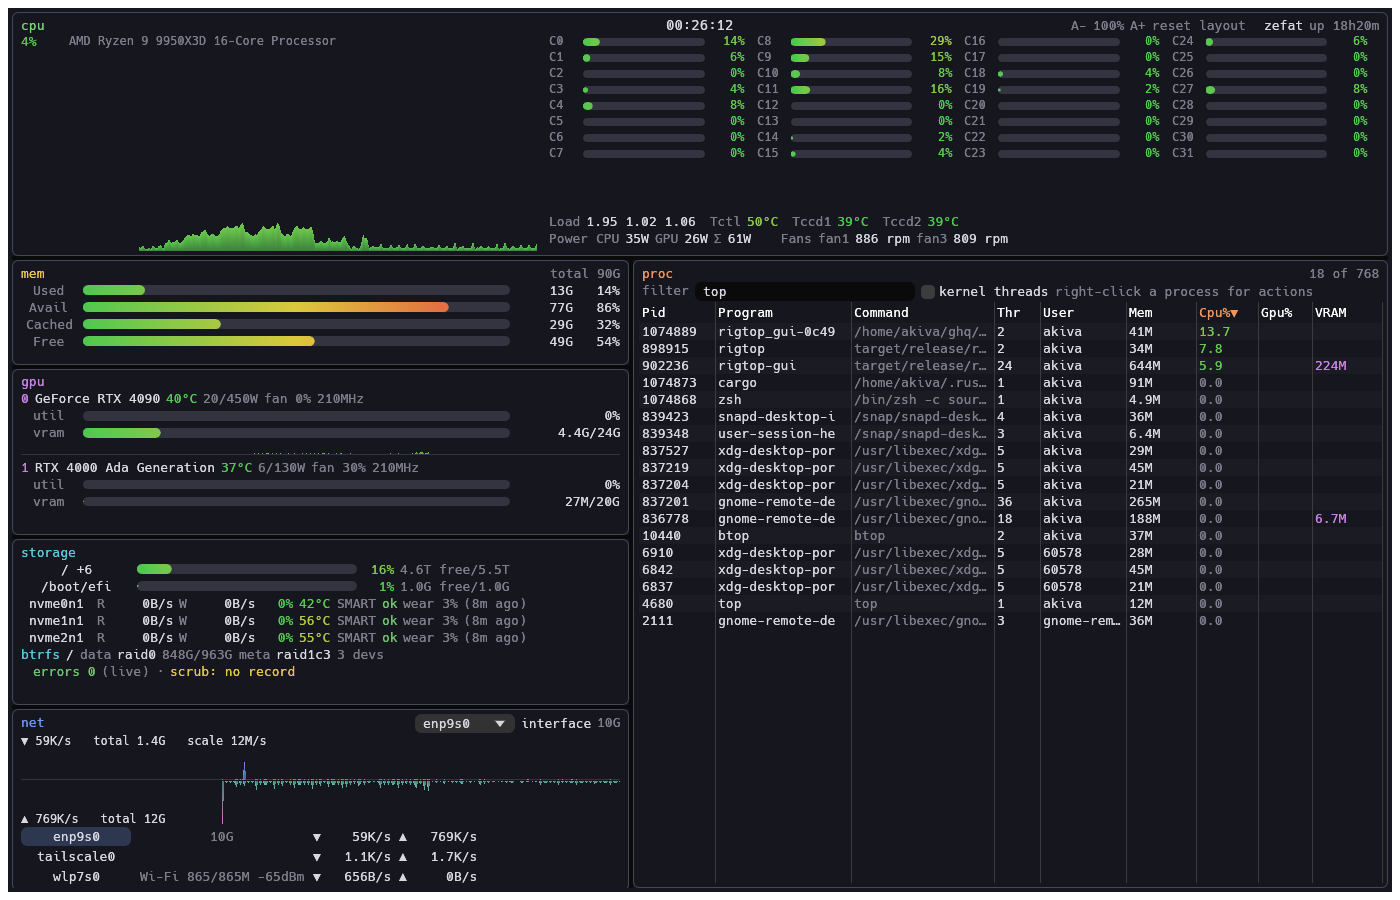
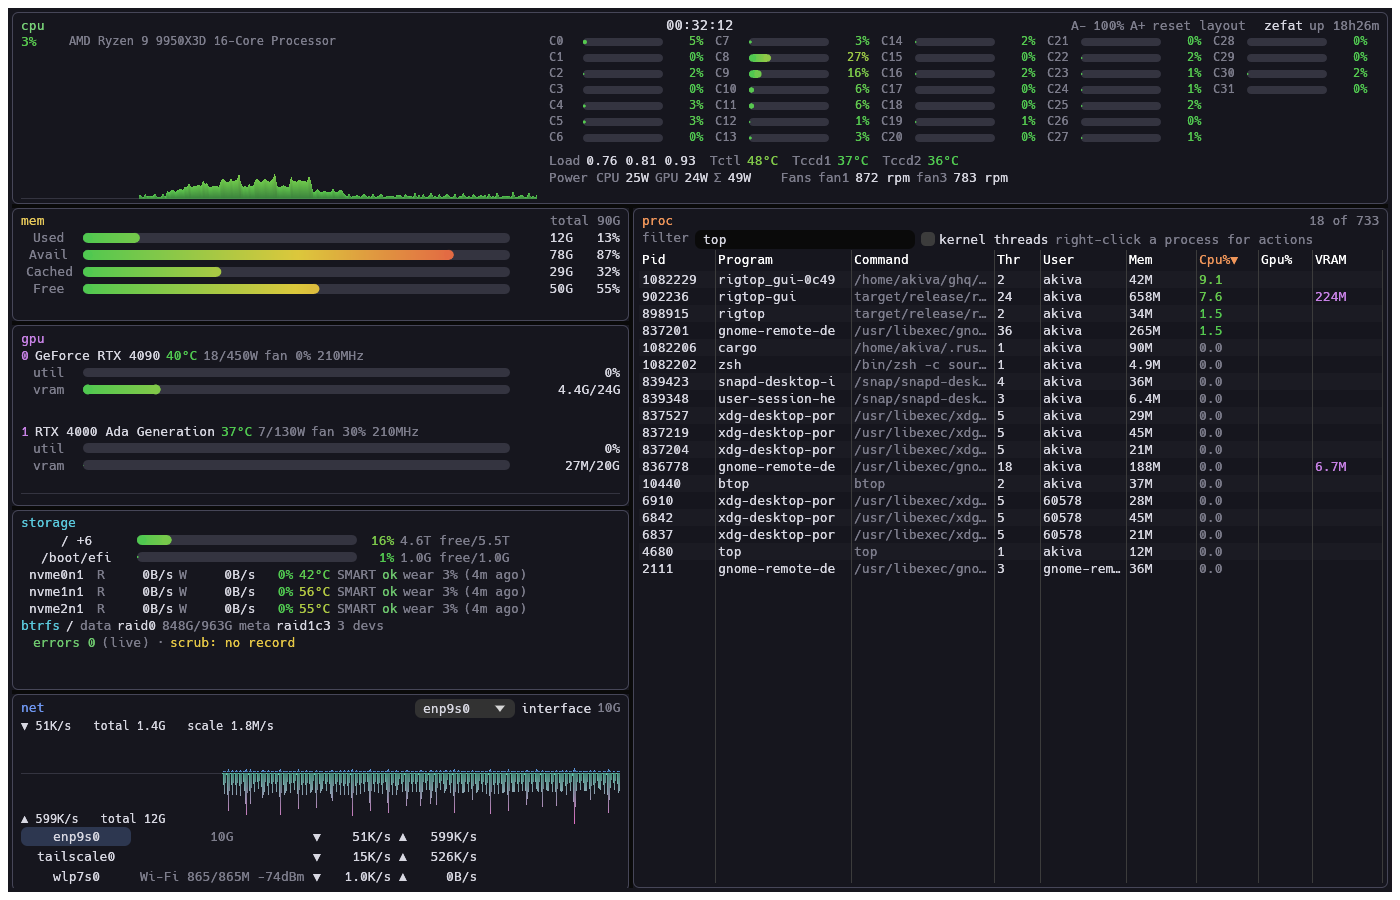
GUI: tighter CPU panel that adapts its core grid to the space
- The default layout gives the CPU panel 22% of the height instead of 28%
- The core grid picks the richest cell style whose rows fit (150 px
  cells with meters, 110 px cells with meters, compact 70 px cells with
  just the percentage), so short or narrow panels no longer clip cores
- Load, temperatures, power and fans sit right below the grid instead of
  at the bottom of the panel, so no gap opens in the middle
- The screenshot test accepts RIGTOP_GUI_SIZE; README screenshot updated

diff --git a/crates/rigtop-gui/src/panels.rs b/crates/rigtop-gui/src/panels.rs
@@ -18,8 +18,9 @@ use crate::widgets::{self, BAD, DIM, OK, TEXT, WARN, percent_color, temperature_
 
 /// Height of one text row in the custom-painted parts.
 const ROW_HEIGHT: f32 = 16.0;
-/// Narrowest per-core cell in the CPU grid.
-const CORE_CELL_MIN_WIDTH: f32 = 150.0;
+/// Per-core cell styles, richest first: (narrowest cell width, has a meter).
+/// The grid uses the first one whose rows fit in the panel height.
+const CORE_CELL_STYLES: [(f32, bool); 3] = [(150.0, true), (110.0, true), (70.0, false)];
 /// SMART results older than this are flagged as stale.
 const SMART_STALE_SECS: u64 = 3600;
 /// Scrubs older than this are flagged (a monthly scrub is the common advice).
@@ -150,8 +151,6 @@ fn cpu(ui: &mut Ui, state: &GuiState) {
         pos2(graph_rect.right() + 12.0, area.top()),
         pos2(area.right(), area.bottom() - info_height),
     );
-    let info_rect =
-        egui::Rect::from_min_max(pos2(grid_rect.left(), grid_rect.bottom() + 4.0), area.max);
     ui.allocate_rect(area, Sense::hover());
 
     // Total usage graph with the current value and model on top.
@@ -172,29 +171,62 @@ fn cpu(ui: &mut Ui, state: &GuiState) {
         DIM,
     );
 
-    core_grid(ui, grid_rect, &cpu.per_core_percent, &cpu.per_core_mhz);
+    let grid_height = core_grid(ui, grid_rect, &cpu.per_core_percent, &cpu.per_core_mhz);
 
+    // Load and power go right under the grid, so spare height ends up at
+    // the bottom rather than as a gap in the middle.
+    let info_rect = egui::Rect::from_min_max(
+        pos2(grid_rect.left(), grid_rect.top() + grid_height + 6.0),
+        area.max,
+    );
     let mut info = ui.new_child(egui::UiBuilder::new().max_rect(info_rect));
     cpu_info(&mut info, state, snapshot);
 }
 
-/// Per-core meters, column-major like btop, with as few columns as the
-/// height allows so that meters stay long.
-fn core_grid(ui: &Ui, rect: egui::Rect, cores: &[f32], mhz: &[u64]) {
+/// Layout of the per-core grid in a `width` x `height` area.
+#[derive(Debug, Clone, Copy, PartialEq)]
+struct CoreGrid {
+    columns: usize,
+    rows: usize,
+    cell_width: f32,
+    meters: bool,
+}
+
+/// Chooses the richest cell style whose rows fit in the height, using as
+/// few columns as the height allows so that meters stay long. When even the
+/// compact style does not fit, it is used anyway (the grid is clipped).
+fn core_grid_layout(cores: usize, width: f32, height: f32) -> CoreGrid {
+    let max_rows = (height / ROW_HEIGHT).floor().max(1.0) as usize;
+    let layout = |(min_width, meters): (f32, bool)| {
+        let max_columns = (width / min_width).floor().max(1.0) as usize;
+        let columns = cores.div_ceil(max_rows).clamp(1, max_columns);
+        let rows = cores.div_ceil(columns);
+        CoreGrid {
+            columns,
+            rows,
+            cell_width: width / columns as f32,
+            meters,
+        }
+    };
+    CORE_CELL_STYLES
+        .into_iter()
+        .map(layout)
+        .find(|grid| grid.rows <= max_rows)
+        .unwrap_or_else(|| layout(CORE_CELL_STYLES[CORE_CELL_STYLES.len() - 1]))
+}
+
+/// Per-core meters, column-major like btop. Returns the height used.
+fn core_grid(ui: &Ui, rect: egui::Rect, cores: &[f32], mhz: &[u64]) -> f32 {
     if cores.is_empty() || rect.width() < 60.0 || rect.height() < ROW_HEIGHT {
-        return;
+        return 0.0;
     }
-    let max_rows = (rect.height() / ROW_HEIGHT).floor().max(1.0) as usize;
-    let max_columns = (rect.width() / CORE_CELL_MIN_WIDTH).floor().max(1.0) as usize;
-    let columns = cores.len().div_ceil(max_rows).clamp(1, max_columns);
-    let rows = cores.len().div_ceil(columns);
-    let cell_width = rect.width() / columns as f32;
+    let grid = core_grid_layout(cores.len(), rect.width(), rect.height());
     let painter = ui.painter_at(rect);
     let font = FontId::monospace(12.0);
-    let show_freq = cell_width > 230.0 && !mhz.is_empty();
+    let show_freq = grid.meters && grid.cell_width > 230.0 && !mhz.is_empty();
     for (index, &usage) in cores.iter().enumerate() {
-        let (col, row) = (index / rows, index % rows);
-        let x = rect.left() + col as f32 * cell_width;
+        let (col, row) = (index / grid.rows, index % grid.rows);
+        let x = rect.left() + col as f32 * grid.cell_width;
         let y = rect.top() + row as f32 * ROW_HEIGHT;
         painter.text(
             pos2(x, y),
@@ -203,16 +235,31 @@ fn core_grid(ui: &Ui, rect: egui::Rect, cores: &[f32], mhz: &[u64]) {
             font.clone(),
             DIM,
         );
+        let percent = format!("{usage:.0}%");
+        if !grid.meters {
+            // Compact cell: "C12  34%".
+            painter.text(
+                pos2(x + grid.cell_width - 8.0, y),
+                egui::Align2::RIGHT_TOP,
+                percent,
+                font.clone(),
+                percent_color(usage),
+            );
+            continue;
+        }
         let value_width = if show_freq { 92.0 } else { 44.0 };
         let meter_rect = egui::Rect::from_min_max(
             pos2(x + 34.0, y + 2.0),
-            pos2(x + cell_width - value_width - 8.0, y + ROW_HEIGHT - 2.0),
+            pos2(
+                x + grid.cell_width - value_width - 8.0,
+                y + ROW_HEIGHT - 2.0,
+            ),
         );
         widgets::paint_meter(ui, meter_rect, usage / 100.0);
         painter.text(
             pos2(meter_rect.right() + 40.0, y),
             egui::Align2::RIGHT_TOP,
-            format!("{usage:.0}%"),
+            percent,
             font.clone(),
             percent_color(usage),
         );
@@ -227,6 +274,7 @@ fn core_grid(ui: &Ui, rect: egui::Rect, cores: &[f32], mhz: &[u64]) {
             );
         }
     }
+    (grid.rows as f32 * ROW_HEIGHT).min(rect.height())
 }
 
 /// Load, temperatures, power and fans under the core grid.
@@ -959,5 +1007,24 @@ pub fn confirm_dialog(ctx: &egui::Context, state: &mut GuiState) {
             state.confirm = None;
         }
         None => {}
+    }
+}
+
+#[cfg(test)]
+mod tests {
+    use super::*;
+
+    #[test]
+    fn core_grid_falls_back_to_denser_cells() {
+        // Tall enough: wide cells with meters, as few columns as rows allow.
+        let roomy = core_grid_layout(32, 810.0, 112.0);
+        assert!(roomy.meters && roomy.cell_width >= 150.0);
+        assert_eq!((roomy.columns, roomy.rows), (5, 7));
+        // Narrow and short: 150px cells need 11 rows; 110px cells fit.
+        let narrow = core_grid_layout(32, 600.0, 130.0);
+        assert!(narrow.meters && narrow.rows <= 8, "{narrow:?}");
+        // Very narrow: compact cells without meters.
+        let tiny = core_grid_layout(32, 420.0, 100.0);
+        assert!(!tiny.meters && tiny.rows <= 6, "{tiny:?}");
     }
 }

diff --git a/crates/rigtop-gui/src/app.rs b/crates/rigtop-gui/src/app.rs
@@ -374,7 +374,7 @@ fn setup_style(ctx: &egui::Context) {
 /// btop-like default arrangement:
 ///
 /// ```text
-/// cpu (28%)
+/// cpu (22%)
 /// mem / gpu / storage / net (45%) | proc (55%)
 /// ```
 fn default_tree() -> Tree<Pane> {
@@ -389,7 +389,7 @@ fn default_tree() -> Tree<Pane> {
     let bottom = tiles.insert_horizontal_tile(vec![left, procs]);
     let root = tiles.insert_vertical_tile(vec![cpu, bottom]);
 
-    set_shares(&mut tiles, root, &[(cpu, 28.0), (bottom, 72.0)]);
+    set_shares(&mut tiles, root, &[(cpu, 22.0), (bottom, 78.0)]);
     set_shares(&mut tiles, bottom, &[(left, 45.0), (procs, 55.0)]);
     set_shares(
         &mut tiles,
@@ -651,7 +651,8 @@ mod tests {
     ///
     /// Optional: `RIGTOP_GUI_FILTER` (process filter, e.g. to keep personal
     /// processes out of published images) and `RIGTOP_GUI_SAMPLES` (number of
-    /// samples taken 300 ms apart, to fill the graphs; default 20).
+    /// samples taken 300 ms apart, to fill the graphs; default 20) and
+    /// `RIGTOP_GUI_SIZE` (window size such as `1000x700`; default 1400x900).
     #[test]
     #[ignore]
     fn screenshot_local_machine() {
@@ -671,8 +672,15 @@ mod tests {
         if let Ok(filter) = std::env::var("RIGTOP_GUI_FILTER") {
             app.state.filter = filter;
         }
+        let size = std::env::var("RIGTOP_GUI_SIZE")
+            .ok()
+            .and_then(|s| {
+                let (w, h) = s.split_once('x')?;
+                Some([w.parse::<f32>().ok()?, h.parse::<f32>().ok()?])
+            })
+            .unwrap_or([1400.0, 900.0]);
         let mut harness = Harness::builder()
-            .with_size([1400.0, 900.0])
+            .with_size(size)
             .build_ui_state(|ui, app: &mut RigtopApp| app.show(ui), app);
         harness.run();
         harness
